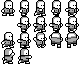
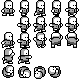
Double jump & climbing

diff --git a/src/player.ts b/src/player.ts
@@ -2,7 +2,7 @@ import { Camera } from "./camera.js";
 import { Canvas, Flip } from "./canvas.js";
 import { CoreEvent } from "./core.js";
 import { Dust } from "./dust.js";
-import { CollisionObject, nextObject } from "./gameobject.js";
+import { boxOverlay, CollisionObject, nextObject } from "./gameobject.js";
 import { Sprite } from "./sprite.js";
 import { State } from "./types.js";
 import { Vector2 } from "./vector.js";
@@ -16,6 +16,7 @@ export class Player extends CollisionObject {
     private jumpTimer : number;
     private canJump : boolean;
     private jumpSpeed : number;
+    private doubleJump : boolean;
 
     private faceDir : number;
     private flip : Flip;
@@ -24,6 +25,11 @@ export class Player extends CollisionObject {
     private dustTimer : number;
 
     private running : boolean;
+
+    private climbing : boolean;
+    private touchLadder : boolean;
+    private isLadderTop : boolean;
+    private climbX : number;
 
 
     constructor(x : number, y : number) {
@@ -43,6 +49,7 @@ export class Player extends CollisionObject {
         this.jumpMargin = 0;
         this.canJump = false;
         this.jumpSpeed = 0.0;
+        this.doubleJump = false;
 
         this.faceDir = 1;
         this.flip = Flip.None;
@@ -51,20 +58,87 @@ export class Player extends CollisionObject {
 
         this.dust = new Array<Dust> ();
         this.dustTimer = 0;
+    
+        this.climbX = 0;
+        this.climbing = false;
+        this.touchLadder = false;
+        this.isLadderTop = false;
+    }
+
+
+    private startClimbing(event : CoreEvent) {
+
+        if (!this.climbing &&
+            this.touchLadder && 
+            (!this.isLadderTop && event.input.upPress() || 
+            (this.isLadderTop && event.input.downPress()))) {
+
+            this.climbing = true;
+
+            this.pos.x = this.climbX;
+
+            if (this.isLadderTop) {
+
+                this.pos.y += 6;
+            }
+            this.stopMovement();
+            this.jumpTimer = 0;
+        }
+    }
+
+
+    private climb(event : CoreEvent) {
+
+        const EPS = 0.1;
+        const CLIMB_SPEED = 0.5;
+        const CLIB_JUMP_TIME = 10;
+
+        this.target.x = 0;
+        
+        let s = event.input.getAction("fire2");
+
+        this.flip = Flip.None;
+
+        if (!this.touchLadder) {
+
+            this.climbing = false;
+        }
+        else {
+
+            this.target.y = CLIMB_SPEED * event.input.getStick().y;
+            if (s == State.Pressed) {
+
+                this.climbing = false;
+                this.doubleJump = false;
+                if (event.input.getStick().y < EPS) {
+
+                    this.jumpTimer = CLIB_JUMP_TIME;
+                }
+            }
+        }
     }
 
 
     private control(event : CoreEvent) {
 
-        const BASE_GRAVITY = 4.0;
+        const BASE_GRAVITY = 3.0;
         const MOVE_SPEED = 0.75;
+        const RUN_MOD = 1.66667;
         const EPS = 0.01;
+
         const JUMP_TIME = 12;
+        const DOUBLE_JUMP_TIME = 8;
         const BASE_JUMP_SPEED = 2.0;
         const BASE_JUMP_MOD = 0.25;
-        const RUN_MOD = 1.66667;
 
         let stick = event.input.getStick();
+
+        this.startClimbing(event);
+        if (this.climbing) {
+
+            this.climb(event);
+            return;
+        }
 
         this.target.x = stick.x * MOVE_SPEED;
         this.target.y = BASE_GRAVITY;
@@ -74,18 +148,26 @@ export class Player extends CollisionObject {
             this.flip = stick.x > 0 ? Flip.None : Flip.Horizontal;
             this.faceDir = stick.x > 0 ? 1 : -1;
         }
-
+    
         let s = event.input.getAction("fire2");
 
         if (this.jumpTimer <= 0 &&
-            this.jumpMargin > 0 &&
+            (this.jumpMargin > 0 || !this.doubleJump) &&
             s == State.Pressed) {
 
-            this.jumpMargin = 0;
-            this.jumpTimer = JUMP_TIME;
+            if (this.jumpMargin > 0) {
 
-            this.jumpSpeed = BASE_JUMP_SPEED + Math.abs(this.speed.x) * BASE_JUMP_MOD;
+                this.jumpSpeed = BASE_JUMP_SPEED + Math.abs(this.speed.x) * BASE_JUMP_MOD;
+                this.jumpMargin = 0;
 
+                this.jumpTimer = JUMP_TIME;
+            }
+            else {
+
+                this.jumpTimer = DOUBLE_JUMP_TIME;
+                this.jumpSpeed = BASE_JUMP_SPEED;
+                this.doubleJump = true;
+            }
             this.canJump = false;
         }
         else if (this.jumpTimer > 0 && 
@@ -107,10 +189,23 @@ export class Player extends CollisionObject {
 
         const EPS = 0.01;
         const JUMP_EPS = 0.75;
+        const RUN_SPEED_BASE = 10;
+        const RUN_SPEED_MOD = 4;
+        const DOUBLE_JUMP_SPEED = 4;
+        const SPIN_EPS = 1.0;
+        const CLIMB_SPEED = 10;
 
         let animSpeed : number;
         let frame : number;
         let row : number;
+
+        if (this.climbing) {
+
+            if (Math.abs(this.speed.y) > EPS)
+                this.spr.animate(2, 3, 4, CLIMB_SPEED, event.step);
+
+            return;
+        }
 
         if (this.canJump) {
 
@@ -122,19 +217,26 @@ export class Player extends CollisionObject {
 
                 row = this.running ? 1 : 0;
 
-                animSpeed = 10 - Math.abs(this.speed.x) * 5;
+                animSpeed = RUN_SPEED_BASE - Math.abs(this.speed.x) * RUN_SPEED_MOD;
                 this.spr.animate(row, 1, 4, animSpeed | 0, event.step);
             }
         }
         else {
 
-            frame = 1;
-            if (this.speed.y < -JUMP_EPS)
-                frame = 0;
-            else if (this.speed.y > JUMP_EPS)
-                frame = 2;
+            if (this.doubleJump && this.speed.y < SPIN_EPS) {
 
-            this.spr.setFrame(frame, 2);
+                this.spr.animate(4, 0, 3, DOUBLE_JUMP_SPEED, event.step);
+            }
+            else {
+
+                frame = 1;
+                if (this.speed.y < -JUMP_EPS)
+                    frame = 0;
+                else if (this.speed.y > JUMP_EPS)
+                    frame = 2;
+
+                this.spr.setFrame(frame, 2);
+            }
         }
     }
 
@@ -163,12 +265,9 @@ export class Player extends CollisionObject {
 
     private updateDust(event : CoreEvent) {
 
-        const DUST_GEN_TIME_BASE = 10;
-        const DUST_GEN_TIME_RUN = 7;
+        const DUST_GEN_TIME_BASE = 8;
         const DUST_ANIM_SPEED = 8;
         const EPS = 0.01;
-
-        let genTime = this.running ? DUST_GEN_TIME_RUN : DUST_GEN_TIME_BASE;
 
         for (let d of this.dust) {
 
@@ -176,6 +275,8 @@ export class Player extends CollisionObject {
         }
 
         if (!this.canJump || Math.abs(this.speed.x) <= EPS) return;
+
+        let genTime = DUST_GEN_TIME_BASE / Math.abs(this.speed.x);
 
         if ((this.dustTimer += event.step) >= genTime) {
 
@@ -198,6 +299,8 @@ export class Player extends CollisionObject {
         this.updateDust(event);
 
         this.canJump = false;
+        this.touchLadder = false;
+        this.isLadderTop = false;
     }
 
 
@@ -277,7 +380,26 @@ export class Player extends CollisionObject {
 
             this.canJump = true;
             this.jumpMargin = JUMP_MARGIN;
+
+            this.doubleJump = false;
+
+            this.climbing = false;
         }
+    }
+
+
+    public ladderCollision(x : number, y : number, w : number, h : number, 
+        ladderTop : boolean, event : CoreEvent) : boolean {
+
+        if (boxOverlay(this.pos, this.center, this.collisionBox, x, y, w, h)) {
+
+            this.climbX = x + w/2;
+            this.touchLadder = !ladderTop || !this.climbing;
+            this.isLadderTop = this.isLadderTop || ladderTop;
+
+            return true;
+        }
+        return false;
     }
 
 }

diff --git a/src/stage.ts b/src/stage.ts
@@ -198,6 +198,37 @@ export class Stage {
     }
 
 
+    private handleSpecialTileCollision(o : CollisionObject, 
+        layer : number, x : number, y : number, 
+        colId : number, event : CoreEvent) {
+    
+        const LADDER_WIDTH = 8;
+
+        let ladderOff = (16 - LADDER_WIDTH) / 2;
+            
+        switch (colId) {
+
+        // Ladder top
+        case 15:
+
+            o.ladderCollision(x*16 + ladderOff, y*16 + 15, 
+                    LADDER_WIDTH, 1, true, event);
+            o.verticalCollision(x*16, (y+1)*16, 16, 1, event);
+
+            break;
+        // Ladder bottom
+        case 31:
+
+            o.ladderCollision(x*16 + ladderOff, y*16+1, 
+                LADDER_WIDTH, 15, false, event);
+            break;
+        
+        default:
+            break;
+        }
+    } 
+
+
     public objectCollisions(o : CollisionObject, event : CoreEvent) {
 
         const RADIUS = 2;
@@ -226,7 +257,11 @@ export class Stage {
 
                     if (colId <= BASE_TILE_MAX) {
 
-                        this.handleBaseTileCollision(o, layer,  x, y, colId-1, event);
+                        this.handleBaseTileCollision(o, layer, x, y, colId-1, event);
+                    }
+                    else {
+
+                        this.handleSpecialTileCollision(o, layer, x, y, colId-1, event);
                     }
                 }
             }
